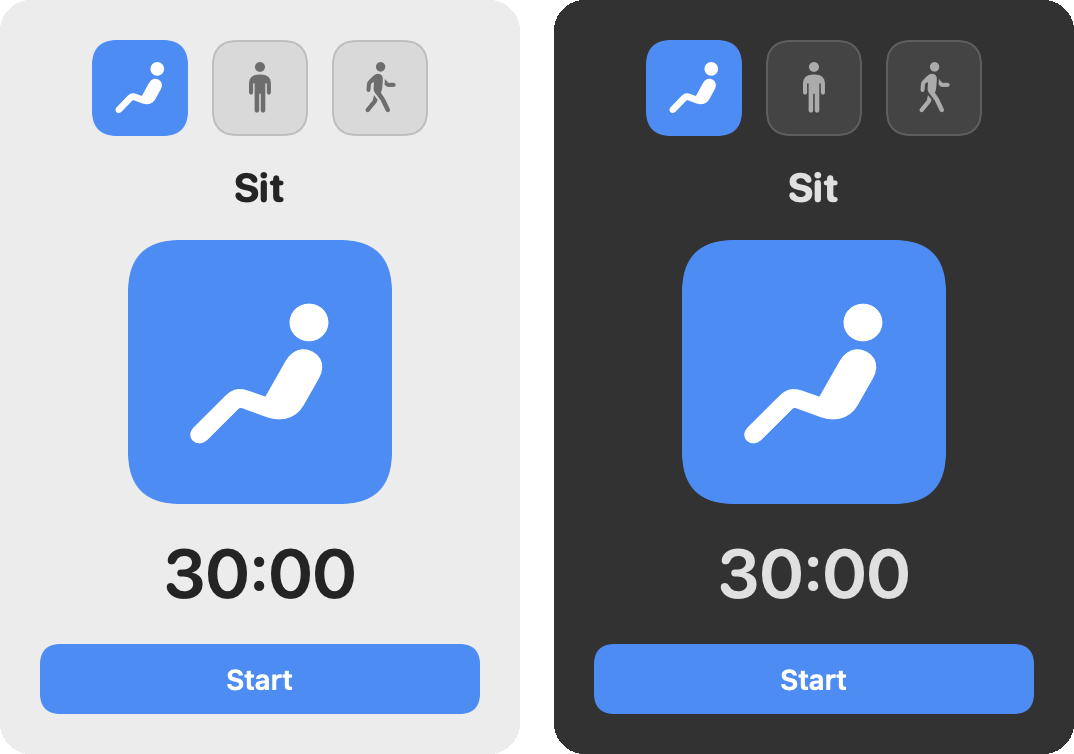
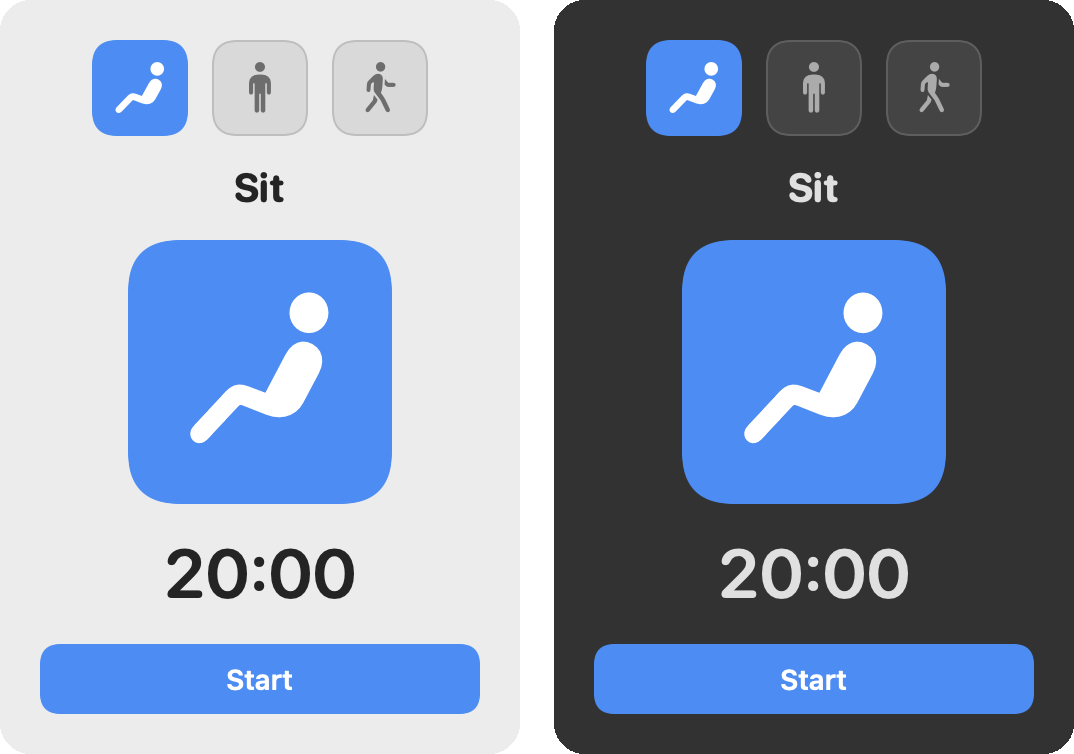
Default to the 20-8-2 ergonomics ratio; trim README
Change the default durations to 20 min sit / 8 stand / 2 move — the
widely-cited 20-8-2 office-ergonomics rule (Cornell University Ergonomics
/ Alan Hedge) — and document the rationale in Phase.swift and the README.
Remove the actor-motion sentence and refresh the screenshot to 20:00.

diff --git a/Sources/SitStandMove/Phase.swift b/Sources/SitStandMove/Phase.swift
@@ -34,9 +34,14 @@ enum Phase: String, CaseIterable, Codable {
     static let loop: [Phase] = [.sit, .stand, .move]
 
     /// Default duration in minutes, used the first time the app runs.
+    ///
+    /// These follow the widely-cited **20-8-2 rule** from office-ergonomics
+    /// research (Cornell University Ergonomics / Prof. Alan Hedge): for each
+    /// half hour, sit ~20 min, stand ~8 min, then move ~2 min — the ratio found
+    /// to best break up prolonged sitting without tiring you out.
     var defaultMinutes: Double {
         switch self {
-        case .sit:   return 30
+        case .sit:   return 20
         case .stand: return 8
         case .move:  return 2
         }

diff --git a/README.md b/README.md
@@ -11,9 +11,6 @@ action and a single button to start it.
 |:---:|:-----:|:----:|
 | <img src="assets/sit.png" width="140"> | <img src="assets/stand.png" width="140"> | <img src="assets/move.png" width="140"> |
 
-The little actor breathes while sitting, sways while standing, and bobs along
-while walking.
-
 ## How it works
 
 1. Click the menu bar icon to open the panel. It shows the first phase (**Sit**),
@@ -35,6 +32,11 @@ While a phase is running you can **Pause** or **Skip** from the panel.
 - **Quit**.
 
 Durations are the only setting, and they persist between launches.
+
+The defaults — **20 min sit · 8 min stand · 2 min move** — follow the widely-cited
+**20-8-2 rule** from office-ergonomics research (Cornell University Ergonomics /
+Prof. Alan Hedge): for every half hour at a desk, sit for about 20 minutes, stand
+for 8, then move for 2.
 
 ## Build & run
 